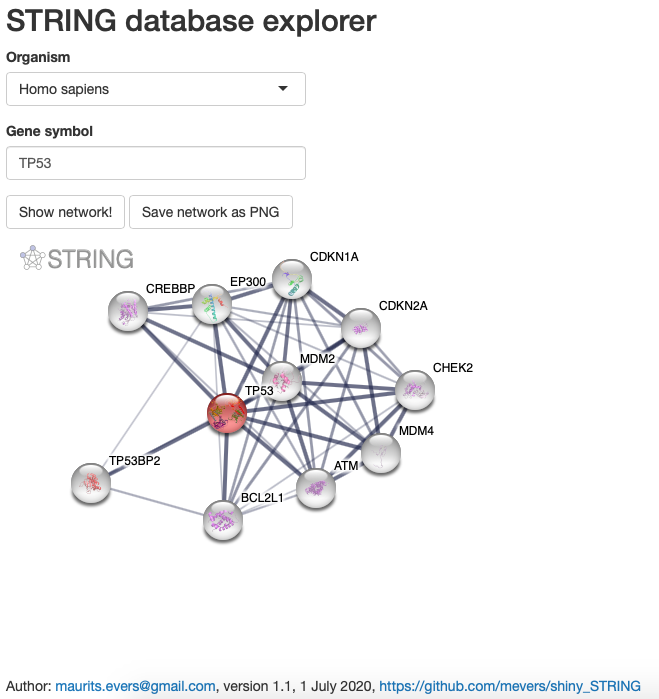
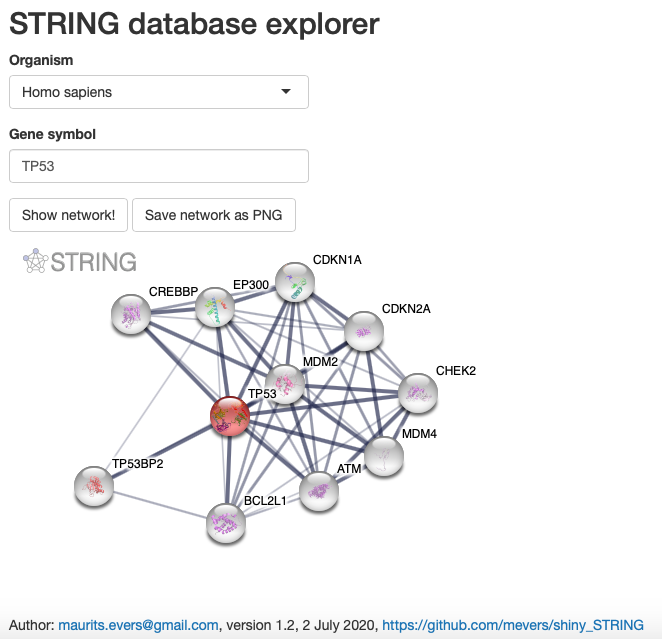
Closes #2

Changed region(s): [[0.0, 0.0, 0.7284, 0.8623], [0.0, 0.9515, 0.9712, 1.0], [0.1821, 0.5947, 0.2124, 0.6244]]

diff --git a/www/my_functions.js b/www/my_functions.js
@@ -18,7 +18,8 @@ shinyjs.loadStringData = function(params) {
     getSTRING('https://string-db.org', {
         'species': params.organism,
         'identifiers': [params.gene],
-        'network_flavor':'confidence'});
+        'network_flavor':'confidence'
+    });
 };
 
 shinyjs.saveSVGasPNG = function() {
@@ -37,9 +38,23 @@ shinyjs.saveSVGasPNG = function() {
         }
     };
 
+    function scaleSVG(svg, width, height) {
+        // Need to clone svg otherwise changes will affect the original SVG
+        // Note to self: All function arguments in JS are mutable bindings
+        var svg_scaled = svg.cloneNode(true);
+        var orgWidth = parseFloat(svg.getAttribute("width"));
+        var orgHeight = parseFloat(svg.getAttribute("height"));
+        svg_scaled.setAttribute("width", width);
+        svg_scaled.setAttribute("height", height);
+        svg_scaled.setAttribute("viewBox", "0 0 " + orgWidth + " " + orgHeight);
+        return svg_scaled;
+    };
+
+    // Get SVG and rescale
     var svg = document.querySelector('#svg_network_image');
-    console.log(svg)
-    var data = (new XMLSerializer()).serializeToString(svg);
+    var scaled_svg = scaleSVG(svg, width = 1280, height = 800);
+
+    var data = (new XMLSerializer()).serializeToString(scaled_svg);
 
     var canvas = document.createElement('canvas');
     canvg(canvas, data, {

diff --git a/README.md b/README.md
@@ -5,11 +5,9 @@
 ![](screenshot.png)
 
 
-## Data
+## STRING data
 
-STRING data from [string-db.org](https://string-db.org/).
-
-[STRING API details](https://string-db.org/help/api/)
+STRING data from [string-db.org](https://string-db.org/). Access is implemented through the [STRING API](https://string-db.org/help/api/). Here we use `javascript:getSTRING`, which is based on HTTP requests through Ajax's `XMLHttpRequest()`.
 
 
 ## Details
@@ -19,9 +17,14 @@ This shiny app makes use of [`shinyjs::extendShinyjs`](https://cran.r-project.or
 
 ## Changelog
 
+### Version 1.2 (2 July 2020)
+
+- [enhancement] PNGs are now saved as high-res 1080x800 images; closes [#2](i2).
+
 ### Version 1.1 (1 July 2020)
 
-- [enhancement] Added possibility to download network as a PNG (see [#1](i1)); this works by converting the network SVG to Canvas (using [`canvg`](https://github.com/canvg/canvg)) which in turn gets converted to a PNG (using [`canvas-to-blob`](https://github.com/blueimp/JavaScript-Canvas-to-Blob)). The custom javascript function are stored in `www/my_functions.js` and hooked to an `actionButton` in shiny. The SVG to PNG conversion was adapted from KhalilRavanna's solution on Stack Overflow: [Save inline SVG as JPEG/PNG/SVG](https://stackoverflow.com/questions/28226677/save-inline-svg-as-jpeg-png-svg). Since the PNG is based on the SVG, the PNG will reflect any changes to the SVG network node layout. 
+- [enhancement] Added possibility to download network as a PNG (see [#1](i1)); this works by converting the network SVG to Canvas (using [`canvg`](https://github.com/canvg/canvg)) which in turn gets converted to a PNG (using [`canvas-to-blob`](https://github.com/blueimp/JavaScript-Canvas-to-Blob)). The custom javascript function are stored in `www/my_functions.js` and hooked to an `actionButton` in shiny. The SVG to PNG conversion was adapted from KhalilRavanna's solution on Stack Overflow: [Save inline SVG as JPEG/PNG/SVG](https://stackoverflow.com/questions/28226677/save-inline-svg-as-jpeg-png-svg). Since the PNG is based on the SVG, the PNG will reflect any changes to the SVG network node layout.
 - [refactoring] Custom javascript functions that load the STRING data and convert the SVG network to a PNG are now saved in the JS file `www/my_functions.js`; this is tidier than using inline JS code in `app.R`.
 
 [i1]: https://github.com/mevers/shiny_STRING/issues/1
+[i2]: https://github.com/mevers/shiny_STRING/issues/2
